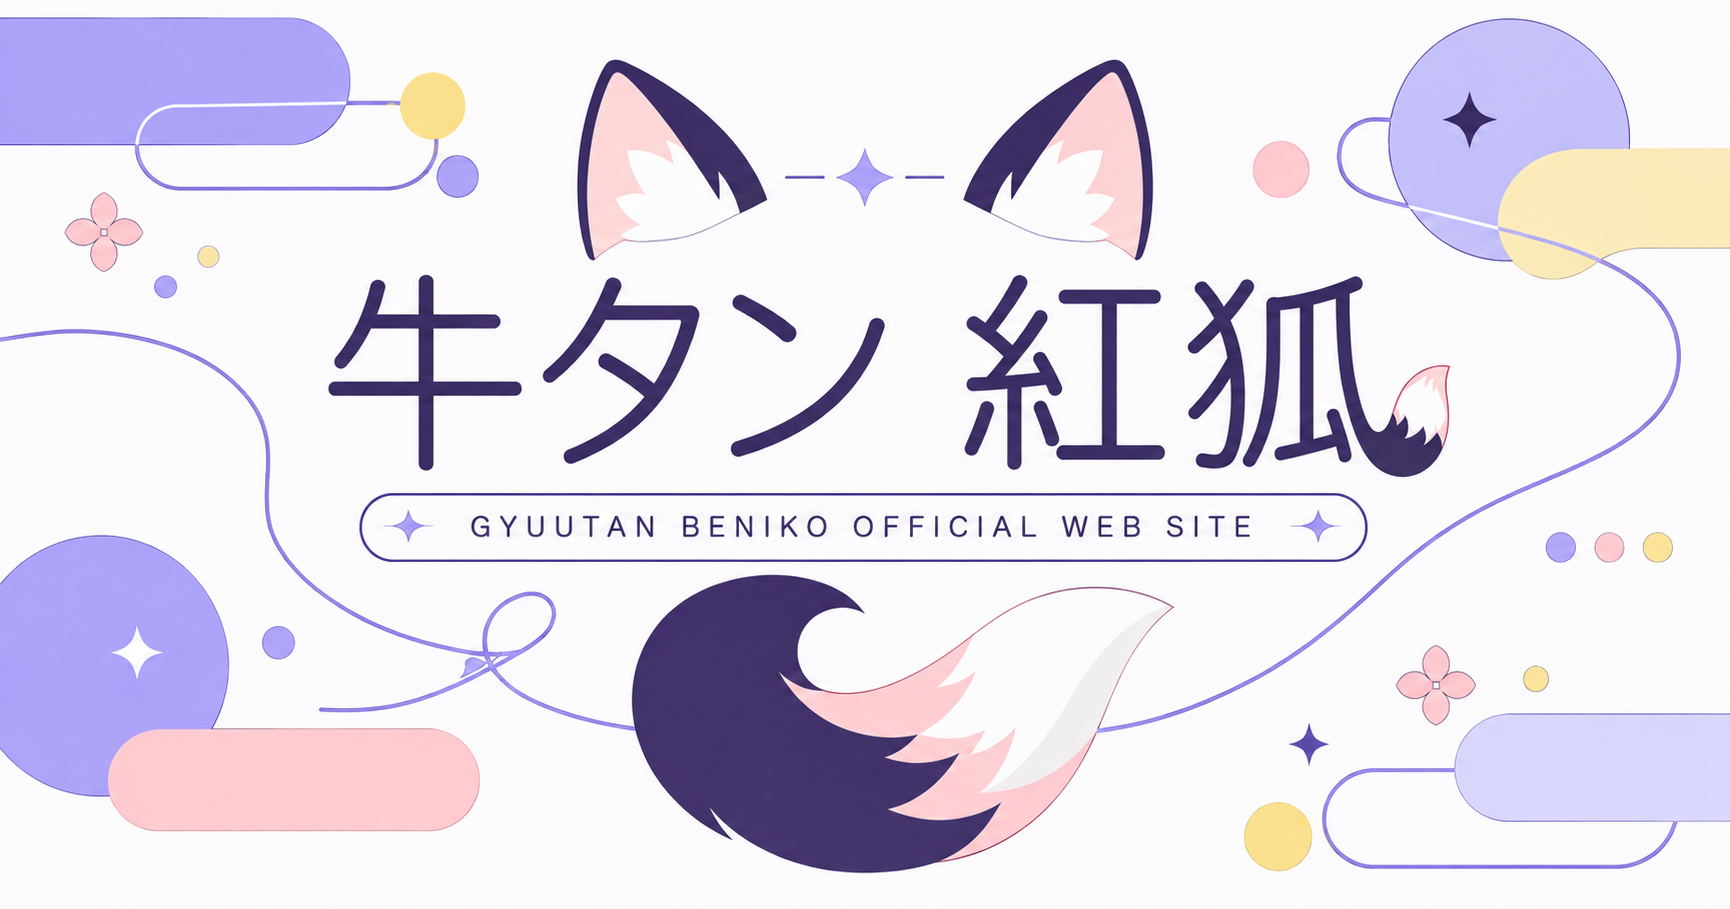
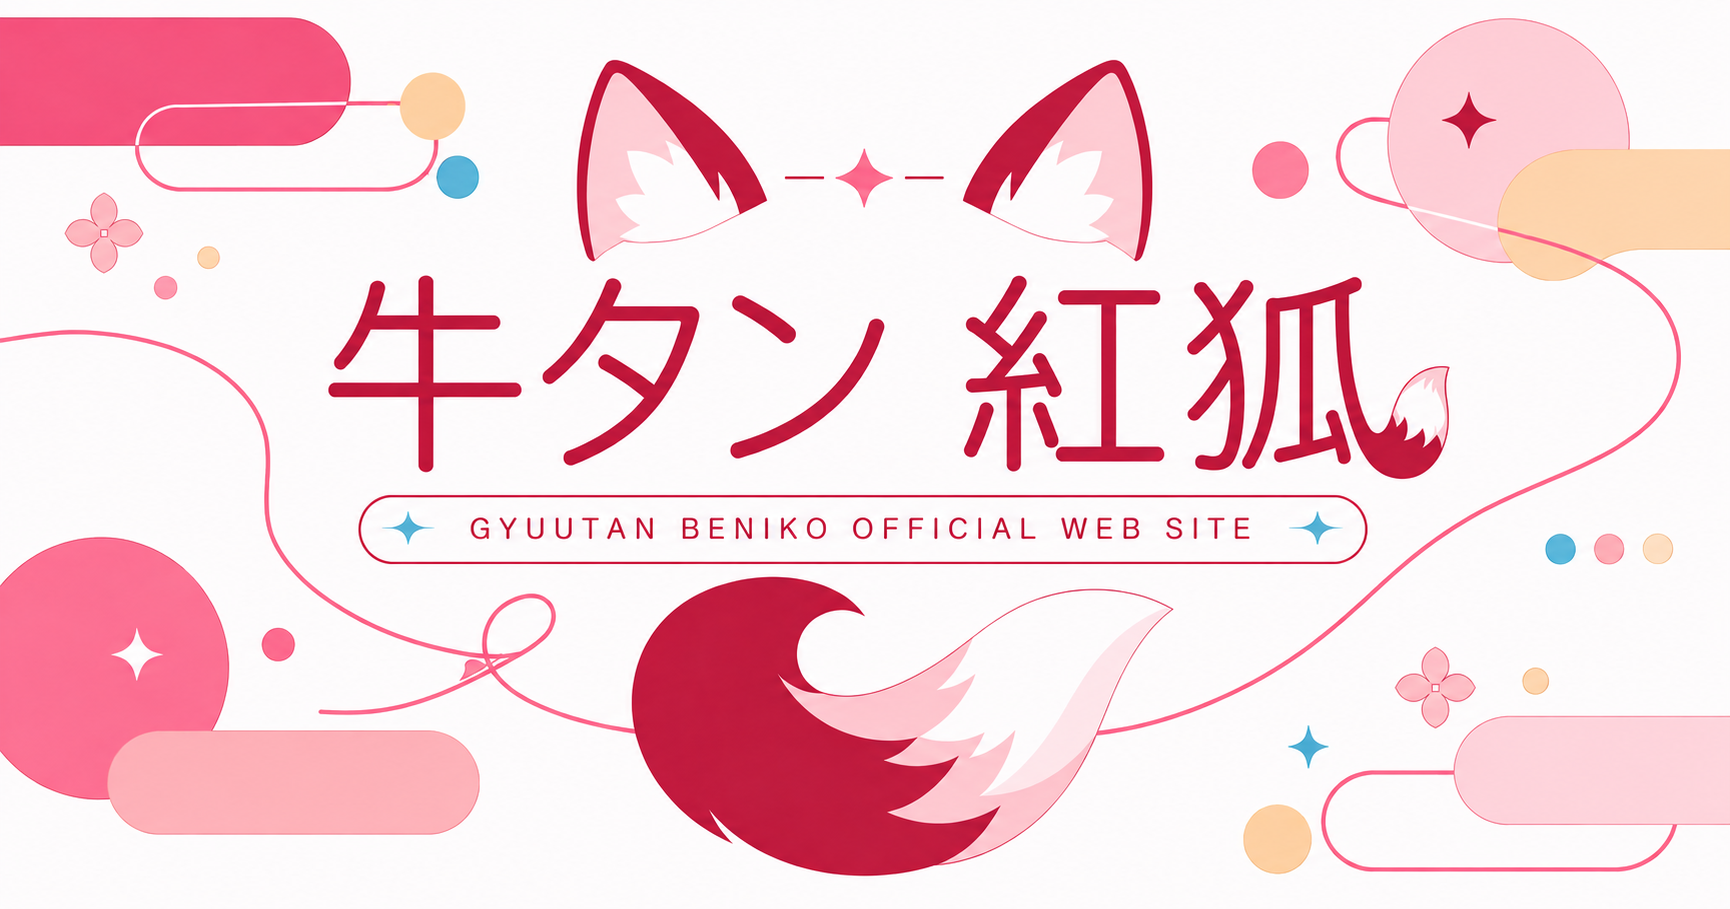
Update site to Beniko brand colors

diff --git a/style.css b/style.css
@@ -1,19 +1,19 @@
 :root {
-    --color-aubergine: #3c315b;
-    --color-ghost-lavender: #e2dffe;
-    --color-periwinkle: #ab9ff2;
-    --color-cornflower-pop: #4a87f2;
-    --color-buttercream: #ffffc4;
-    --color-blush-mist: #ffdadc;
-    --color-mint-signal: #2ec08b;
-    --color-paper-white: #fdfcfe;
-    --color-obsidian: #1c1c1c;
-    --color-fog: #86848d;
-    --color-ash: #e9e8ea;
-    --color-bone: #f4f2f4;
+    --color-aubergine: #9f2346;
+    --color-ghost-lavender: #ffd6e1;
+    --color-periwinkle: #f36b92;
+    --color-cornflower-pop: #4aaed1;
+    --color-buttercream: #ffe2b8;
+    --color-blush-mist: #ffb9c9;
+    --color-mint-signal: #4aaed1;
+    --color-paper-white: #fffafb;
+    --color-obsidian: #2b1d28;
+    --color-fog: #8d737c;
+    --color-ash: #f0dfe4;
+    --color-bone: #fff1f4;
     --font-phantom: 'DM Sans', 'Noto Sans JP', sans-serif;
     --page-max: 1200px;
-    --shadow-sm: rgb(226, 223, 254) 0 0 4px 0;
+    --shadow-sm: rgb(255, 214, 225) 0 0 6px 0;
 }
 
 *, *::before, *::after { box-sizing: border-box; }
@@ -66,12 +66,12 @@ a:focus-visible, button:focus-visible { outline: 2px solid var(--color-cornflowe
     transform: translateX(-50%);
     color: var(--color-aubergine);
     background: rgba(253, 252, 254, .92);
-    border: 1px solid rgba(60, 49, 91, .12);
+    border: 1px solid rgba(159, 35, 70, .12);
     border-radius: 100px;
     backdrop-filter: blur(16px);
     transition: top .25s ease, box-shadow .25s ease;
 }
-.site-header.scrolled { top: 10px; box-shadow: 0 8px 28px rgba(60, 49, 91, .08); }
+.site-header.scrolled { top: 10px; box-shadow: 0 8px 28px rgba(159, 35, 70, .08); }
 .brand { display: inline-flex; align-items: center; gap: 10px; padding-left: 4px; color: inherit; text-decoration: none; }
 .brand-mark { display: grid; place-items: center; width: 46px; height: 46px; flex: 0 0 auto; color: var(--color-paper-white); background: var(--color-aubergine); border-radius: 50%; font-size: 16px; }
 .brand-copy { display: grid; line-height: 1.05; }
@@ -114,7 +114,7 @@ a:focus-visible, button:focus-visible { outline: 2px solid var(--color-cornflowe
 }
 .hero-copy { position: relative; z-index: 3; padding-bottom: 48px; }
 .status-pill { display: inline-flex; align-items: center; gap: 9px; padding: 9px 15px; border: 1px solid var(--color-ash); border-radius: 100px; font-size: 11px; letter-spacing: .08em; }
-.status-pill i { width: 7px; height: 7px; border-radius: 50%; background: var(--color-mint-signal); box-shadow: 0 0 0 4px rgba(46,192,139,.13); }
+.status-pill i { width: 7px; height: 7px; border-radius: 50%; background: var(--color-mint-signal); box-shadow: 0 0 0 4px rgba(74,174,209,.14); }
 .hero h1 { max-width: 760px; margin: 30px 0 26px; font-size: clamp(54px, 6.5vw, 96px); font-weight: 300; line-height: 1.03; letter-spacing: -.055em; }
 .fox-accent { display: inline-grid; place-items: center; width: .86em; height: .86em; margin: 0 .05em; color: var(--color-paper-white); background: var(--color-periwinkle); border-radius: 45% 45% 52% 52%; font-size: .52em; vertical-align: .14em; transform: rotate(-6deg); }
 .hero-copy > p { margin: 0; color: var(--color-fog); font-size: 16px; font-weight: 400; line-height: 1.55; }
@@ -126,7 +126,7 @@ a:focus-visible, button:focus-visible { outline: 2px solid var(--color-cornflowe
 .hero-visual { position: relative; align-self: stretch; min-height: 580px; display: grid; place-items: end center; }
 .hero-visual::before { content: ''; position: absolute; inset: 4% -12% 3% 4%; background: var(--color-aubergine); border-radius: 48% 48% 32px 32px; }
 .character-halo { position: absolute; width: 78%; aspect-ratio: 1; top: 11%; left: 11%; background: var(--color-ghost-lavender); border-radius: 50%; }
-.hero-visual img { position: relative; z-index: 2; width: min(590px, 115%); height: auto; object-fit: contain; filter: saturate(.82); transform: translateY(7%); }
+.hero-visual img { position: relative; z-index: 2; width: min(590px, 115%); height: auto; object-fit: contain; filter: saturate(.96); transform: translateY(7%); }
 .visual-tag { position: absolute; z-index: 4; padding: 12px 18px; border-radius: 100px; font-size: 12px; letter-spacing: .06em; }
 .tag-live { top: 8%; right: 1%; background: var(--color-buttercream); transform: rotate(5deg); }
 .tag-hello { bottom: 18%; left: -3%; background: var(--color-blush-mist); transform: rotate(-8deg); }
@@ -172,11 +172,11 @@ a:focus-visible, button:focus-visible { outline: 2px solid var(--color-cornflowe
 .goods-section { background: var(--color-bone); }
 .coming-pill { padding: 12px 18px; color: var(--color-paper-white); background: var(--color-mint-signal); border-radius: 100px; font-size: 11px; letter-spacing: .12em; }
 .goods-grid { display: grid; grid-template-columns: repeat(3, 1fr); gap: 12px; }
-.goods-card { min-height: 310px; padding: 28px; display: flex; flex-direction: column; justify-content: space-between; border: 1px solid rgba(60,49,91,.08); border-radius: 24px; color: var(--color-aubergine); }
+.goods-card { min-height: 310px; padding: 28px; display: flex; flex-direction: column; justify-content: space-between; border: 1px solid rgba(159,35,70,.08); border-radius: 24px; color: var(--color-aubergine); }
 .goods-card.lavender { background: var(--color-ghost-lavender); }
 .goods-card.blush { background: var(--color-blush-mist); }
 .goods-card.butter { background: var(--color-buttercream); }
-.goods-number { align-self: flex-start; display: grid; place-items: center; width: 42px; height: 42px; border: 1px solid rgba(60,49,91,.25); border-radius: 50%; font-size: 12px; }
+.goods-number { align-self: flex-start; display: grid; place-items: center; width: 42px; height: 42px; border: 1px solid rgba(159,35,70,.25); border-radius: 50%; font-size: 12px; }
 .goods-card p { margin: 0 0 6px; font-size: 10px; letter-spacing: .14em; }
 .goods-card h3 { margin: 0; font-size: 26px; font-weight: 350; }
 .goods-note { font-size: 13px; }
@@ -188,7 +188,7 @@ a:focus-visible, button:focus-visible { outline: 2px solid var(--color-cornflowe
 .social-pill { min-height: 88px; padding: 18px 24px; display: flex; justify-content: space-between; align-items: center; color: var(--color-aubergine); border-radius: 100px; text-decoration: none; transition: transform .2s ease; }
 .social-pill:hover { transform: translateX(5px); }
 .social-pill.periwinkle { background: var(--color-ghost-lavender); }
-.social-pill.cornflower { background: var(--color-cornflower-pop); color: var(--color-paper-white); }
+.social-pill.cornflower { background: var(--color-cornflower-pop); color: var(--color-obsidian); }
 .social-pill.butter { background: var(--color-buttercream); }
 .social-pill span { display: grid; gap: 3px; font-size: 18px; }
 .social-pill small { font-size: 9px; letter-spacing: .14em; }

diff --git a/index.html b/index.html
@@ -3,7 +3,7 @@
 <head>
     <meta charset="UTF-8">
     <meta name="viewport" content="width=device-width, initial-scale=1.0">
-    <meta name="theme-color" content="#3c315b">
+    <meta name="theme-color" content="#9f2346">
     <meta name="description" content="VTuber、牛タン紅狐のオフィシャルサイト。配信・動画・最新情報・SNSはこちらから。">
     <title>牛タン 紅狐｜OFFICIAL WEB SITE</title>
 
